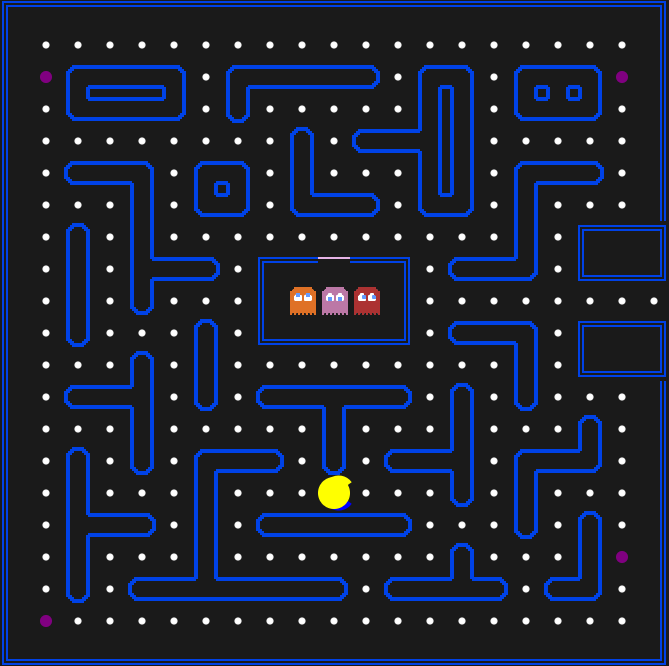
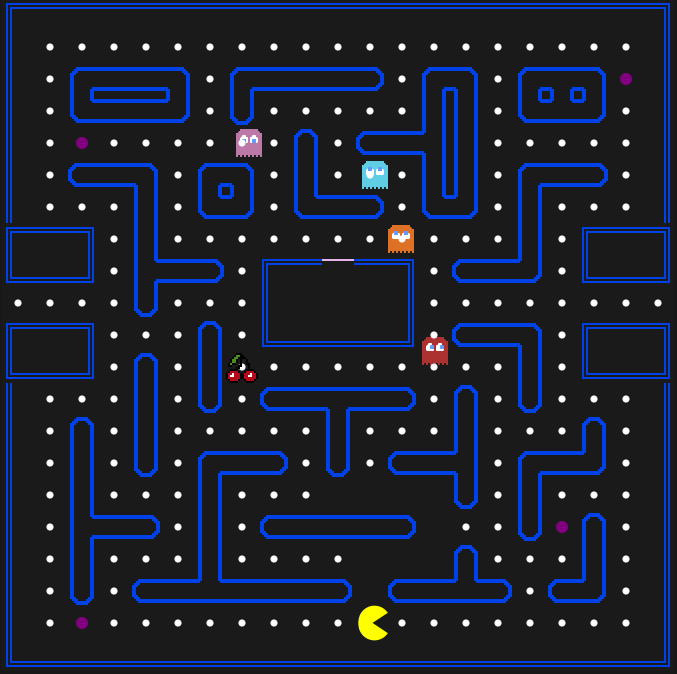
Nytt bilde kart, + oppdatering av Cherry med riktig spawn, også slettet metode som ikke er i bruk.

diff --git a/src/main/java/com/example/packman/BanePane.java b/src/main/java/com/example/packman/BanePane.java
@@ -17,6 +17,7 @@ import javafx.animation.Timeline;
 import javafx.geometry.Insets;
 import javafx.geometry.Pos;
 import javafx.scene.Group;
+import javafx.scene.control.Alert;
 import javafx.scene.control.Label;
 import javafx.scene.image.Image;
 import javafx.scene.image.ImageView;
@@ -67,6 +68,7 @@ public class BanePane extends BorderPane {
     private HBox bunnPanel, tomSide;
     private Cherry cherry;
     private boolean cherrySpawned = false, erImun, iTunell;
+    private int cherrySpawnCount = 0;
 
     Label scoreLabel, time;
 
@@ -96,21 +98,7 @@ public class BanePane extends BorderPane {
 
     }
 
-/*public HBox tomSide() {
-        // bsnen tar bredde*ruteStr i x-aksen og høyde*ruteStr i y-aksen
-        // bunn tar høyde*ruteStr i x-aksen og høyde*ruteStr i y-aksen
 
-        double plassIgjenX = vinduStrX- (bredde * ruteStr) ;
-
-        tomSide = new HBox();
-        setLeft(tomSide);
-        tomSide.setPrefWidth(plassIgjenX/2);
-        tomSide.setPrefHeight(vinduStrY);
-        tomSide.setStyle("-fx-background-color: transparent;");
-
-        return tomSide;
-
-    }*/
     /***      Metoder       ***/
 
     public void bevegelse() {
@@ -650,13 +638,12 @@ public class BanePane extends BorderPane {
             Shape intersect = Shape.intersect(pac.getHitBox(), spøk);
 
             if (intersect.getBoundsInLocal().getWidth() != -1) {
-                // Det er en kollisjon mellom pacman og en dot
                 //System.out.println("Kollisjon oppdaget med dot: " + dot);
-                spøk.setFill(Color.TRANSPARENT);
                 if(s.getModus() != SpøkelsesModus.FRIGHTENED) {
                     bunnPanel.getChildren().remove(hjerteListe.size() - 1);
                     hjerteListe.remove(hjerteListe.size() - 1);
                     imunStart();
+
                 }else if(s.getModus() == SpøkelsesModus.FRIGHTENED){
                     s.gotEaten();
                 }
@@ -664,6 +651,7 @@ public class BanePane extends BorderPane {
             }
         }
     }
+
 
     public void imunStart(){
         erImun = true;
@@ -673,7 +661,6 @@ public class BanePane extends BorderPane {
     public boolean kollisjonMellomPacOgDots() {
         // metode for å spise dots
         for (Dots d : dotsListe) {
-            // Sjekk kollisjon mellom sirkelen og hvert rektangel
             Circle dot = d.getDot();
             Shape intersect = Shape.intersect(pac.getHitBox(), dot);
 
@@ -690,7 +677,7 @@ public class BanePane extends BorderPane {
     }
 
     public boolean kollisjonMellomPacOgPower() {
-        // metode for å sjekke om pacman spsier en powerup
+        // metode for å sjekke om pacman spiser en powerup
         for (PowerUp p : powerListe) {
             // Sjekk kollisjon mellom sirkelen og hvert rektangel
             Circle power = p.getPowerUp();
@@ -715,7 +702,7 @@ public class BanePane extends BorderPane {
         }
     }
     public boolean kollisjonMellomPacOgCherry() {
-        // Metode for å sjekke om PacMan spsier en cherry
+        // Metode for å sjekke om PacMan spiser en cherry
 
         if (cherry == null){
             return false;
@@ -734,59 +721,17 @@ public class BanePane extends BorderPane {
     }
 
     private void setCherrySpawned() {
-        if (!cherrySpawned) {
-           Timeline timeline = new Timeline(new KeyFrame(Duration.seconds(15), e -> spawnCherry()));
-           timeline.play();
+        Timeline timeline;
+        if (! cherrySpawned && cherrySpawnCount < 3) {
+            timeline = new Timeline(new KeyFrame(Duration.seconds(15), e ->
+                   spawnCherry()));
+            cherrySpawned = false;
+            timeline.play();
             cherrySpawned = true;
+            cherrySpawnCount++;
         }
     }
-    public void kollisjonMellomPacOgSidenTilBanen() {
-        // metode for å sjekke kollisjon mellom pacman og siden til banen - altså en tunell
-        // blir egentlig ikke en kollisjon men heller
-
-        for (Rectangle r : sidenTilBanen) {
-            Shape intersect = Shape.intersect(pac.getHitBox(), r);
-            if (intersect.getBoundsInLocal().getWidth() != -1) {
-                System.out.println("Kollisjon oppdaget med siden til banen: " + r);
-                // når vi oppdater en kollisjon spawner vi denne eniniteten på andre siden av banen også ved hjelp av en metode
-                VectorDouble pacCurrKord = pac.getKordinatPosisjon();
-
-                if (!iTunell) {
-                    iTunell = true;
-                    kopiPac = new PacMan(grid);
-                    System.out.println("KopiPac er opprettet");
-                    elementer.getChildren().addAll(kopiPac.getPacman(), kopiPac.getHitBox());
-                }
-                // vi finner ut hvilken side pac går inn i tunell
-                double kopiX = 0;
-                double kopiY = 0;
-                if (r.getX() == 0) {
-                    //venstre
-                    System.out.println("Venstre side");
-                    //bredde er størrelse på grid uten index
-                    kopiX = ((bredde * ruteStr) - ruteStr / 2) + pacCurrKord.getX() + ruteStr;
-                    kopiY = pacCurrKord.getY();
-                } else if (r.getX() == (bredde - 1)*ruteStr) {
-                    System.out.println("Høyre side");
-                    kopiX = ((bredde * ruteStr) - ruteStr / 2) - pacCurrKord.getX() - ruteStr;
-                    kopiY = pacCurrKord.getY();
-                }
-                kopiPac.setKordinatPosisjon(new VectorDouble(kopiX, kopiY));
-                kopiPac.setPosisjon();
-                System.out.println("KopiPac er posisjonert på : " + kopiPac.getKordinatPosisjon().toString());
-
-            }else{
-                if(iTunell){
-                    iTunell = false;
-                }
-                if(kopiPac != null){
-                    pac = kopiPac;
-                    elementer.getChildren().removeAll(kopiPac.getPacman(), kopiPac.getHitBox());
-                    kopiPac = null;
-                }
-            }
-        }
-    }
+/* Blir ikke brukt, i tilfelle vi vil sjekke tunellhåndtering i BanePane istedenfor i levende klasser.
     public void tunellHåndtering() {
         // metode for å håndtere tunellgjennomgang av pacman
 
@@ -835,7 +780,7 @@ public class BanePane extends BorderPane {
             }
         }
     }
-
+*/
 
     public RuteSamling hentTileset(String tileFilnavn) {
         RuteSamling samling = new RuteSamling();

diff --git a/src/main/java/com/example/packman/Elementer/IkkeLevende/Cherry.java b/src/main/java/com/example/packman/Elementer/IkkeLevende/Cherry.java
@@ -28,7 +28,7 @@ public class Cherry extends IkkeLevende {
         hitBox.setCenterX(spawnPoint.getX()*ruteStr + ruteStr/2);
         hitBox.setCenterY(spawnPoint.getY()*ruteStr + ruteStr/2);
         hitBox.setRadius(ruteStr/4);
-        hitBox.setFill(Color.PINK);
+        hitBox.setFill(Color.TRANSPARENT);
         cherry.setFitWidth(ruteStr);
         cherry.setFitHeight(ruteStr);
         cherry.setLayoutX(spawnPoint.getX()*ruteStr);
